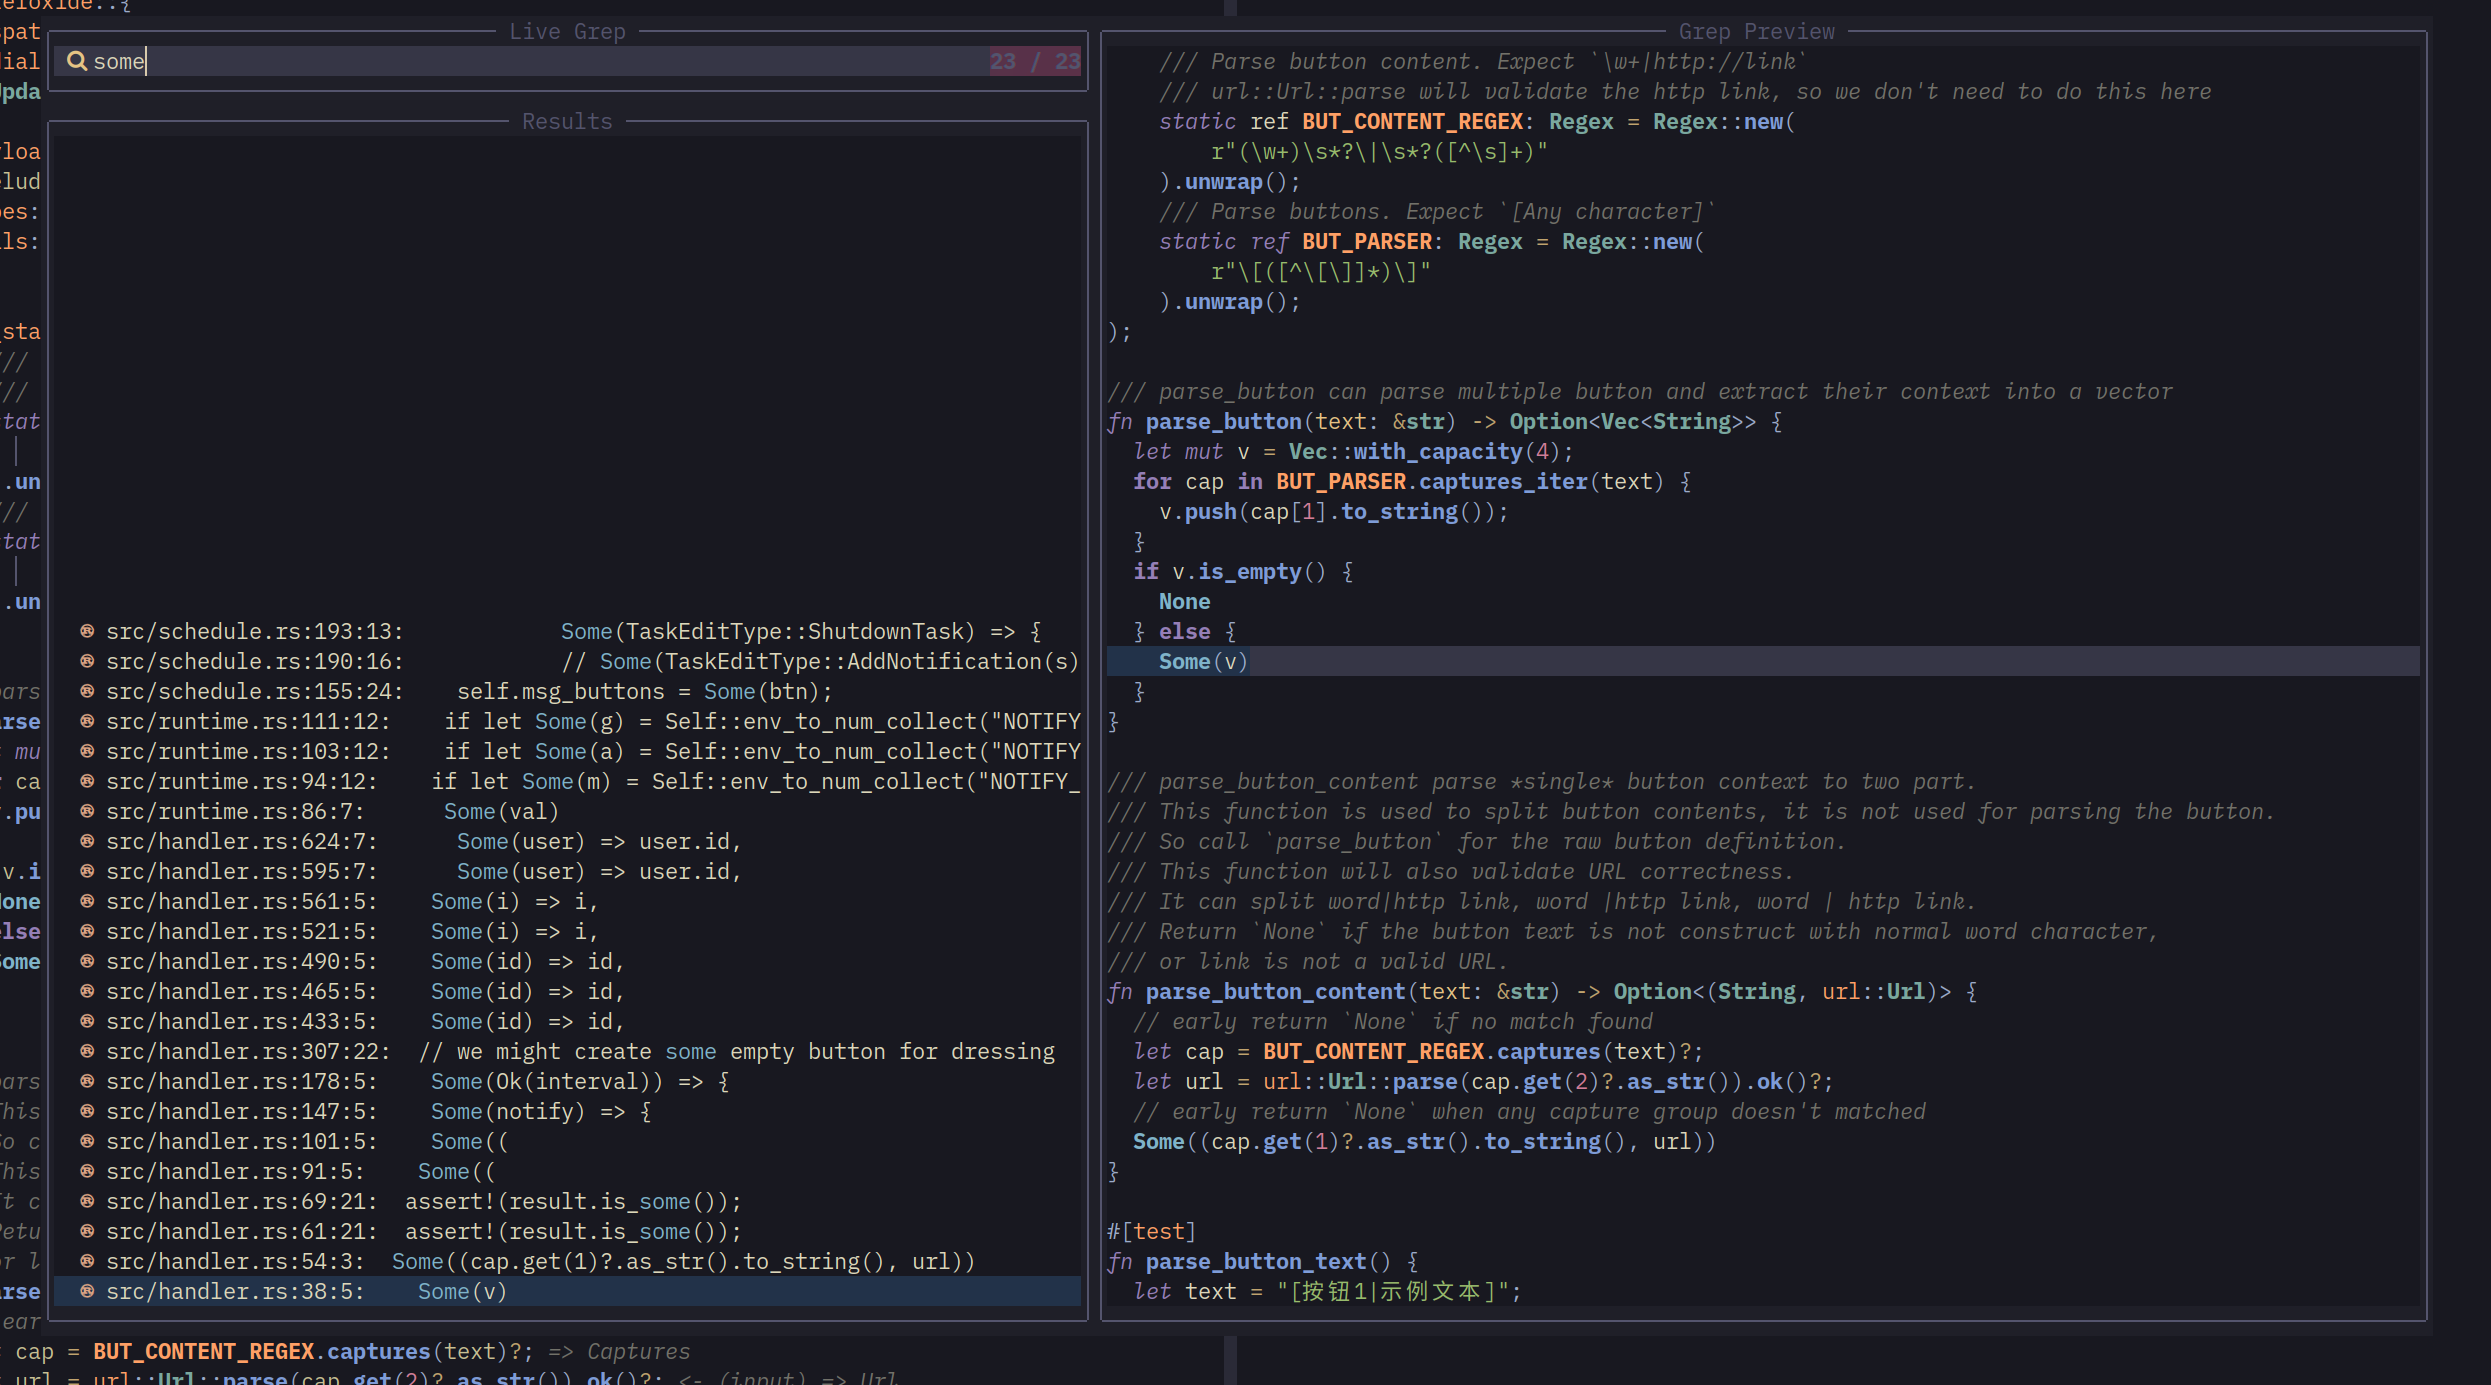
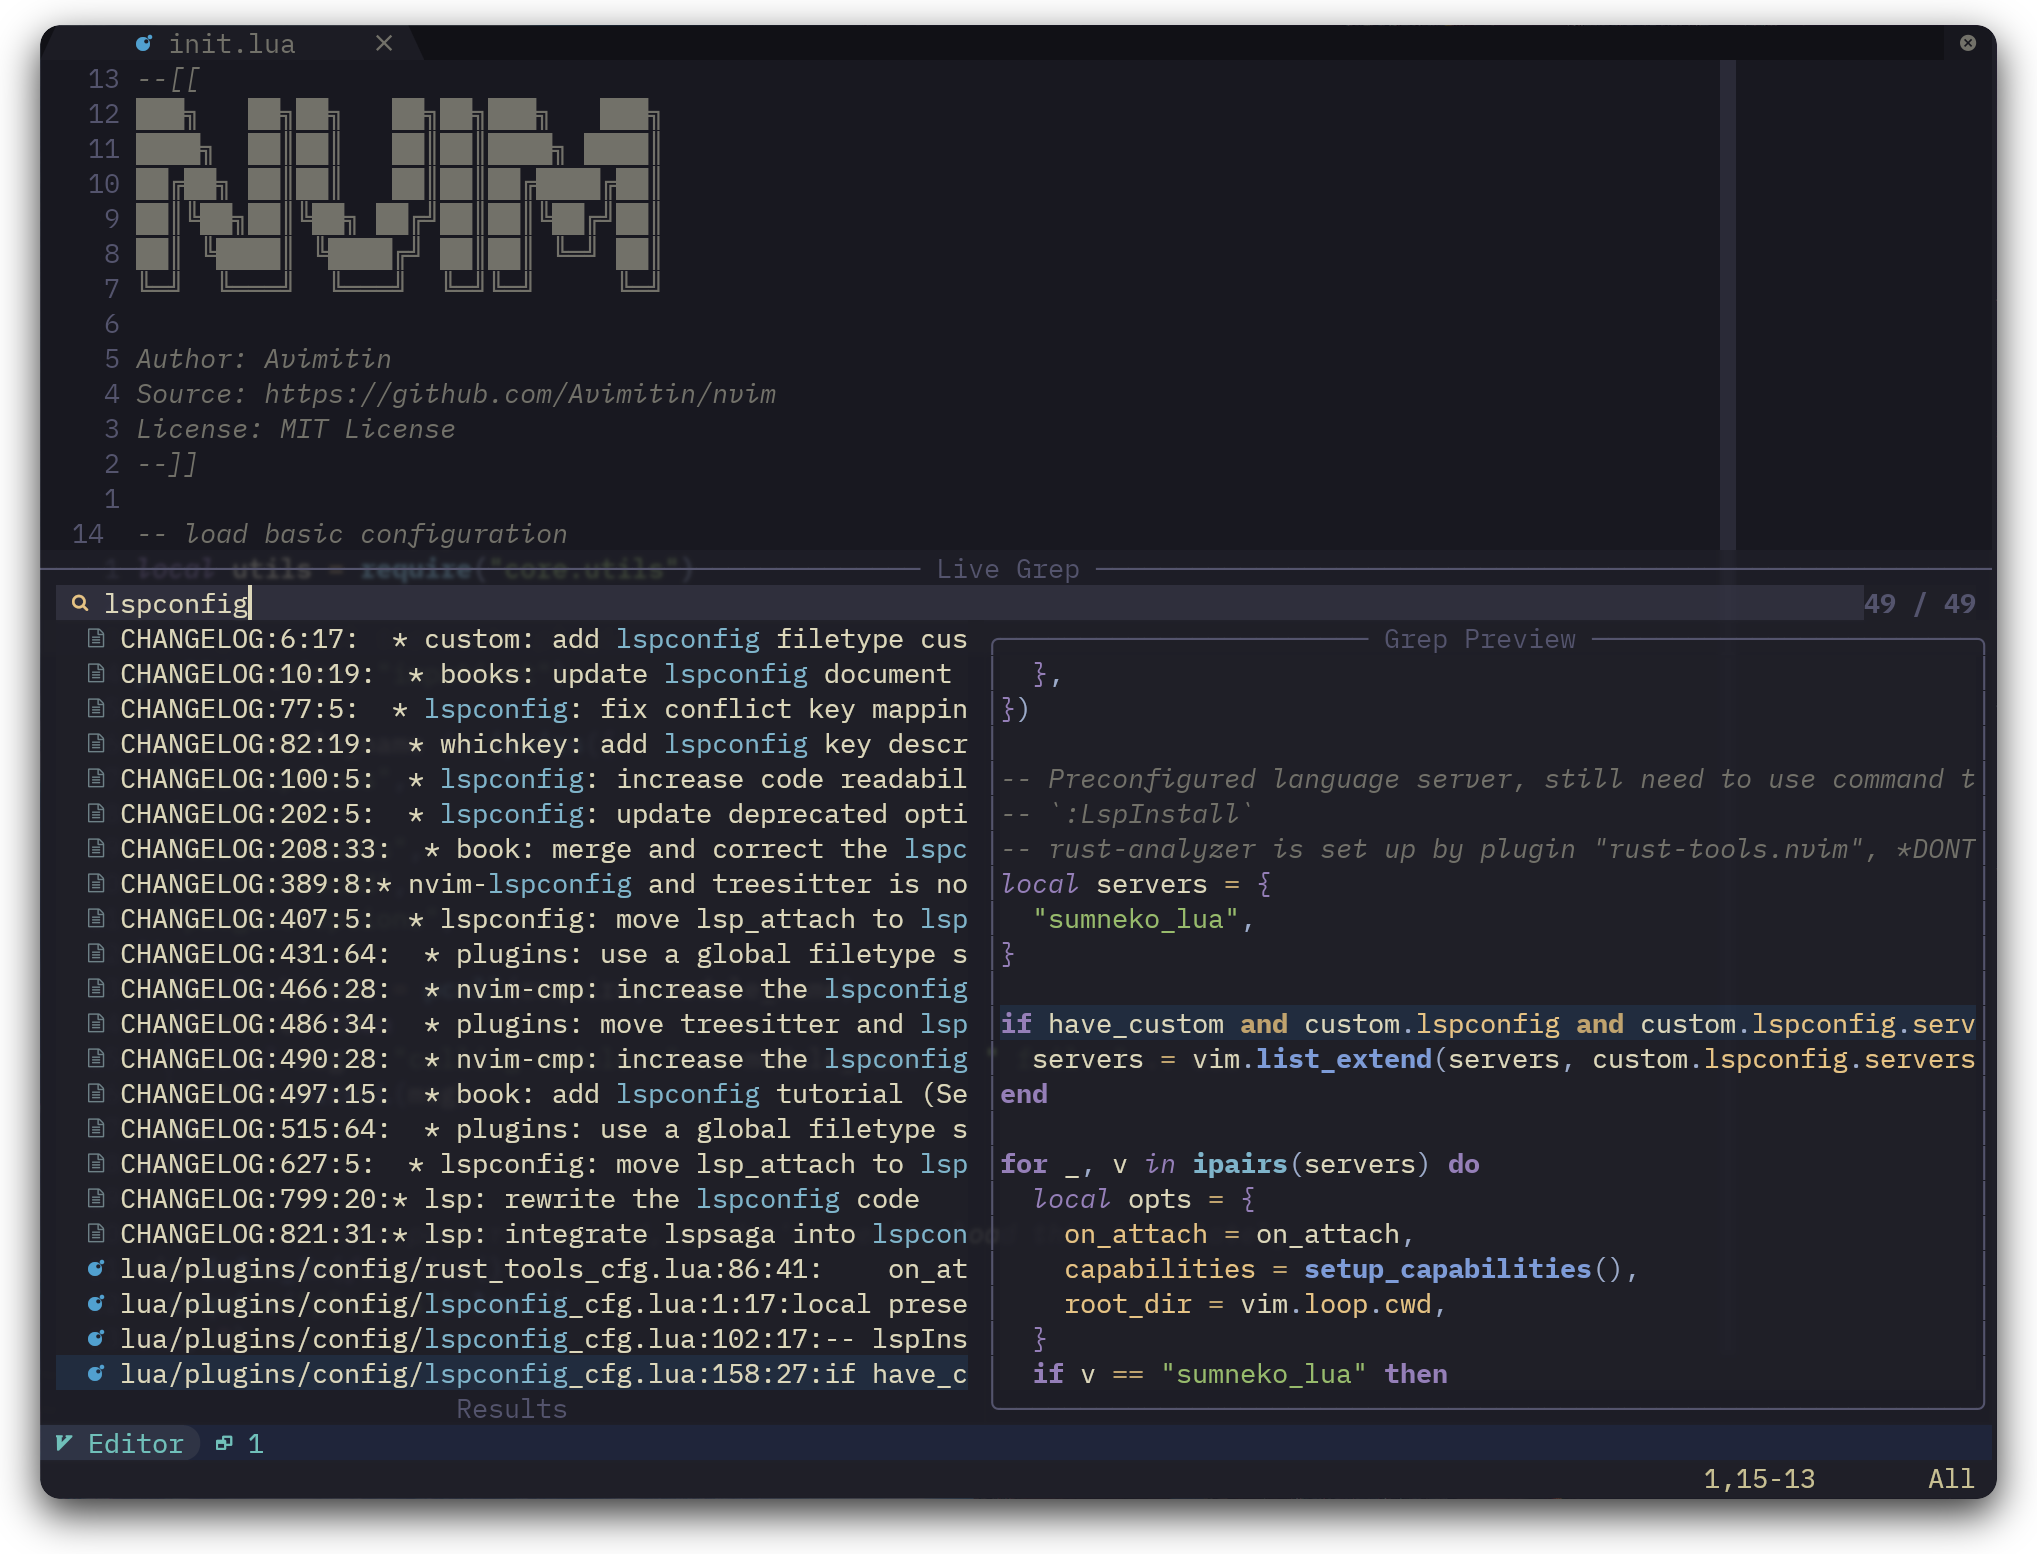
R. change screenshot with Macos like shadow
Update screenshot with this scripts:
https://gist.github.com/Avimitin/2301f413e7d0a525625ecdc61e384b9c

Changed region(s): [[0.0, 0.0, 1.0, 1.0], [0.0619, 0.2173, 0.3402, 0.2794], [0.4639, 0.2173, 0.4948, 0.2484]]

diff --git a/README.md b/README.md
@@ -108,9 +108,20 @@ Please read [**NVIM GUIDANCE**](https://avimitin.github.io/nvim).
 
 ## Gallery
 
-| Motion                                      | Markdown                              | Table                                              |
-|---------------------------------------------|---------------------------------------|----------------------------------------------------|
-| ![LightSpeed](./docs/images/lightspeed.png) | ![image](./docs/images/neovim-md.png) | ![vim-table-mode-gif](./docs/images/tablemode.gif) |
+| Easy in-file jump                             |
+| --------------------------------------------- |
+| ![LightSpeed](./docs/images/lightspeed.png)   |
+
+
+| Table                                              |
+|----------------------------------------------------|
+| ![vim-table-mode-gif](./docs/images/tablemode.gif) |
+
+---
+
+| Markdown                                           |
+|----------------------------------------------------|
+| ![image](./docs/images/neovim-md.png)              |
 
 ---
 
